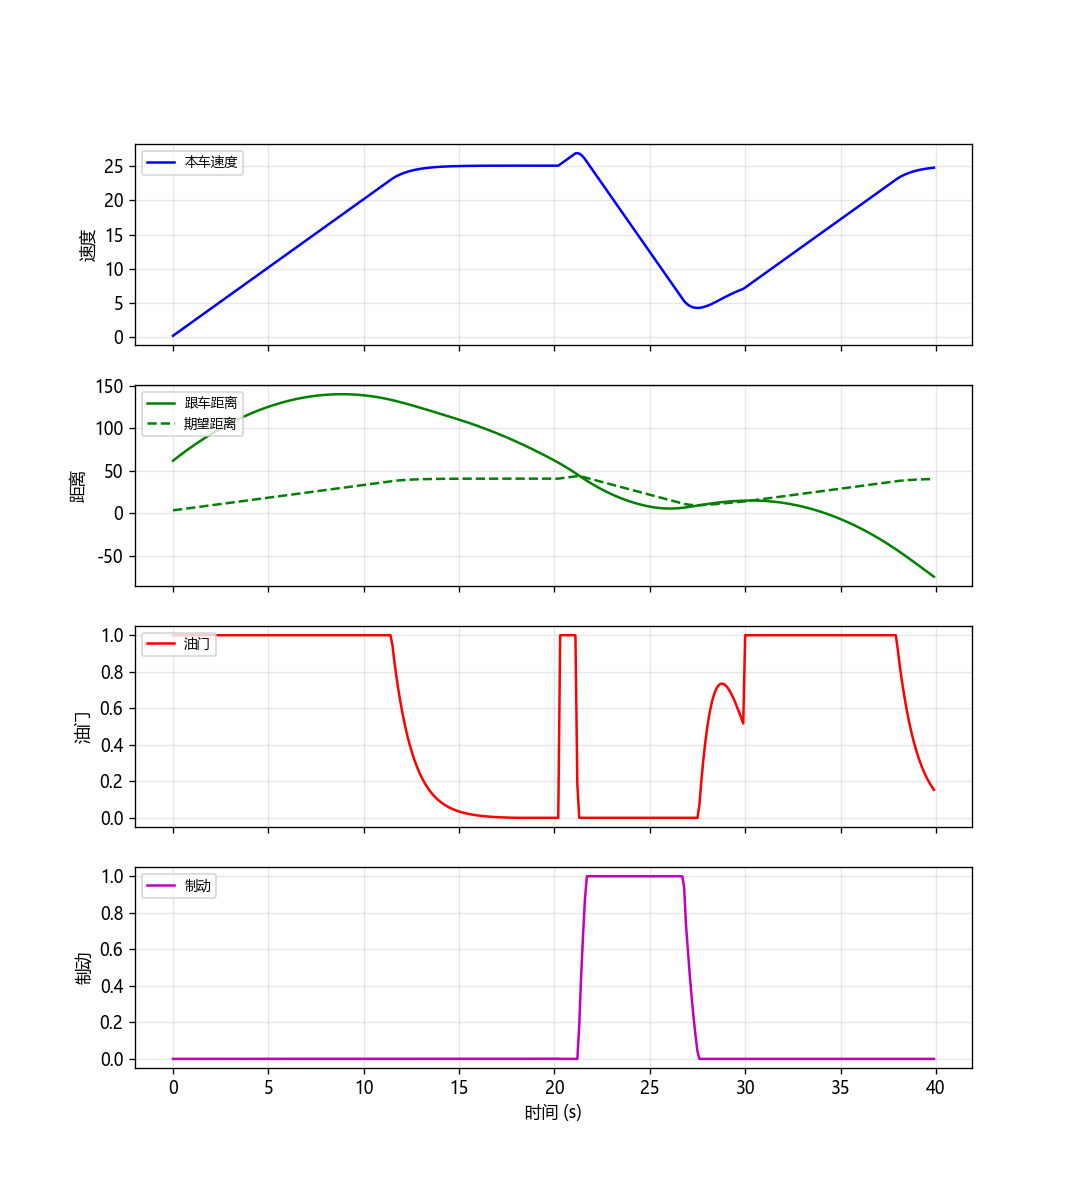
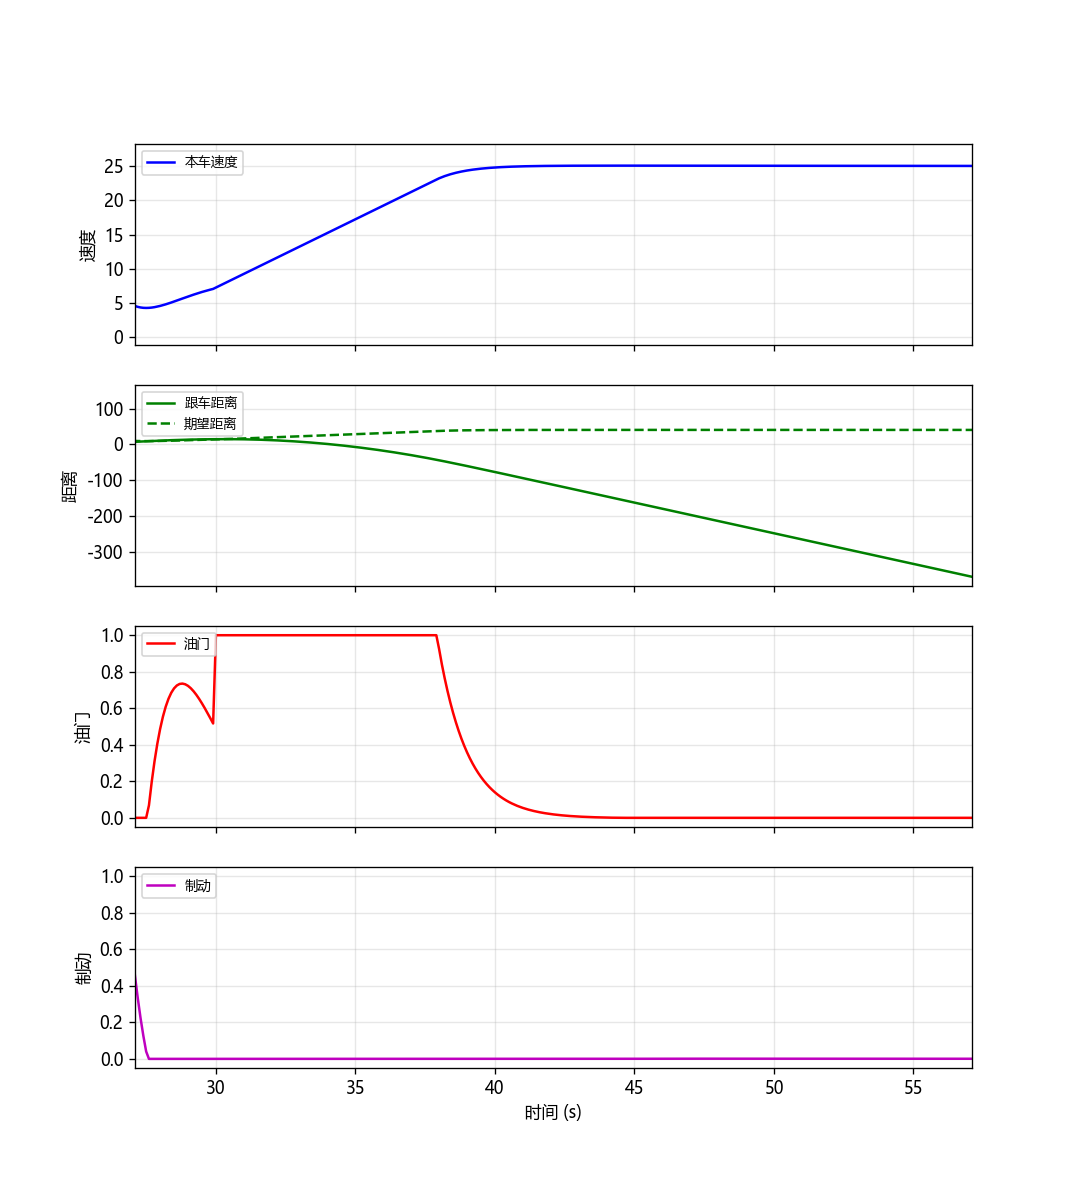
acc_sim 急刹场景 + 标定量对比 + 感知术语笔记；README 同步 v1.7
- scripts/hard_brake_scenario.py: 急刹场景复现
- scripts/compare_time_gap.py: 标定量时间间隔对比实验
- tests/test_acc.py: 用例更新
- notes/perception-terms.md: BEV/OCC 术语笔记（阶段 B 前置概念 + 面试高频词）
- .vscode/settings.json: conda 环境配置
- README: 计划版本 v1.3 → v1.7；补当前阶段进度表与环境状态
- outputs/acc_sim_result.png: 可视化结果更新

diff --git a/scripts/compare_time_gap.py b/scripts/compare_time_gap.py
@@ -1,0 +1,57 @@
+"""标定量实验：改 time_gap 看稳态跟车距离。
+
+体验"改标定量 → 看行为变化"：
+    期望距离 d_set = min_gap + time_gap * v_ego
+    time_gap 越大 → 跟车距离越大（更保守）；越小 → 跟得更近（更激进）。
+
+跑同一收敛场景（前车匀速 20 m/s，本车从 15m 偏近位置退出到稳态），
+对比三个 time_gap 值的稳态跟车距离，验证公式并观察收敛过程。
+"""
+
+import os
+import sys
+
+sys.path.insert(0, os.path.join(os.path.dirname(__file__), ".."))
+
+from acc import ACCSystem, AccConfig, FrontVehicle
+
+
+def run_to_steady(time_gap: float, n_steps: int = 500) -> tuple[float, float]:
+    """返回 (稳态距离, 稳态速度)。"""
+    cfg = AccConfig(set_speed=20.0, time_gap=time_gap, min_gap=3.0)
+    sys = ACCSystem(cfg)
+    sys.turn_on()
+    sys.activate()
+
+    dt = cfg.dt
+    v_ego, x_ego = 20.0, 0.0
+    v_front, x_front = 20.0, 15.0  # 起始 15m，偏近 → ACC 应退到期望距离
+
+    for _ in range(n_steps):
+        target = FrontVehicle(distance=x_front - x_ego, rel_velocity=v_front - v_ego)
+        out = sys.step(target, v_ego)
+        v_ego = max(0.0, v_ego + out.accel * dt)
+        x_ego += v_ego * dt
+        x_front += v_front * dt
+
+    return x_front - x_ego, v_ego
+
+
+def main():
+    print("标定量实验：time_gap 对稳态跟车距离的影响（v_ego≈20 m/s, min_gap=3.0）")
+    print("-" * 60)
+    print(f"{'time_gap(s)':<12}{'d_set 理论(m)':<14}{'稳态距离(m)':<14}{'偏差(m)':<10}")
+    print("-" * 60)
+
+    for gap in (0.8, 1.5, 2.0):
+        d_final, v_final = run_to_steady(gap)
+        d_set = 3.0 + gap * v_final  # 用实际稳态速度算理论值
+        print(f"{gap:<12.1f}{d_set:<14.1f}{d_final:<14.2f}{d_final - d_set:<+10.2f}")
+
+    print("-" * 60)
+    print("time_gap=0.8 → 跟车 19m（激进）；1.5 → 33m（常用）；2.0 → 43m（保守）")
+    print("这就是'标定量改动 → 跟车时距/舒适性/安全性'的直接映射。")
+
+
+if __name__ == "__main__":
+    main()

diff --git a/scripts/hard_brake_scenario.py b/scripts/hard_brake_scenario.py
@@ -1,0 +1,59 @@
+"""急刹场景探测：前车急刹时当前骨架控制器会发生什么？
+
+结论预告：会撞。原因 = 控制器只用距离误差、忽略 rel_velocity，
+对"接近速度"反应迟钝 —— 这正是量产 ACC 跟车控制必须有
+相对速度项（阻尼/前馈）的原因，也是"前车急刹"必须进测试清单的原因。
+
+场景：前车在平衡点（33m, 20m/s）1s 后以 -6 m/s^2 急刹
+（比 ACC 最大减速度 -4 更狠）。观察 ACC 能否避免碰撞。
+
+可以自己改 hard_brake_at / 减速度，看什么条件下不撞。
+"""
+
+import os
+import sys
+
+sys.path.insert(0, os.path.join(os.path.dirname(__file__), ".."))
+
+from acc import ACCSystem, AccConfig, FrontVehicle
+
+
+def main():
+    cfg = AccConfig(set_speed=20.0, time_gap=1.5, min_gap=3.0)
+    sys = ACCSystem(cfg)
+    sys.turn_on()
+    sys.activate()
+
+    dt = cfg.dt
+    v_ego, x_ego = 20.0, 0.0
+    v_front, x_front = 20.0, 33.0  # 从平衡点开始
+
+    hard_brake_at = 1.0   # 1s 后前车急刹
+    front_decel = 6.0     # 前车减速度 (m/s^2)，比 ACC 的 brake_max=4 更狠
+
+    print("t(s)   dist    v_ego   v_front  accel   brk")
+    print("-" * 48)
+    collided = False
+    for i in range(int(8.0 / dt)):
+        t = i * dt
+        if t >= hard_brake_at:
+            v_front = max(0.0, v_front - front_decel * dt)
+        target = FrontVehicle(x_front - x_ego, v_front - v_ego)
+        out = sys.step(target, v_ego)
+        v_ego = max(0.0, v_ego + out.accel * dt)
+        x_ego += v_ego * dt
+        x_front += v_front * dt
+        if i % 10 == 0:
+            print(f"{t:5.1f}  {x_front - x_ego:5.1f}  {v_ego:5.1f}   "
+                  f"{v_front:5.1f}  {out.accel:5.2f}  {out.brake:4.2f}")
+        if x_front - x_ego <= 0:
+            print(f"\n>>> 碰撞！t={t:.1f}s，距离归零。")
+            collided = True
+            break
+
+    if not collided:
+        print("\n>>> 未碰撞，跟车成功。")
+
+
+if __name__ == "__main__":
+    main()

diff --git a/tests/test_acc.py b/tests/test_acc.py
@@ -113,6 +113,26 @@ def test_exceeding_max_speed_exits_active():
     assert out.mode == "none"
 
 
+# ================= 急刹场景：前车急刹应全力制动 =================
+
+def test_hard_brake_requests_full_brake():
+    """前车急刹（近距离 + 大负相对速度）→ 应全力制动。
+
+    验证输出契约：紧急状态必须满刹车。
+    注意：当前骨架控制器只用距离误差、不用 rel_velocity，
+    本用例只保证"近距离触发全力制动"这一步；
+    rel_velocity 被忽略导致的反应滞后，见 scripts/hard_brake_scenario.py。
+    """
+    sys = make_system()
+    sys.turn_on()
+    sys.activate()
+    target = FrontVehicle(distance=5.0, rel_velocity=-10.0)  # 近距离 + 前车急刹
+    out = sys.step(target, 20.0)
+    assert out.mode == "follow"
+    assert out.accel == sys.cfg.brake_max   # 全力制动
+    assert out.brake == 1.0
+
+
 # ================= 运动学收敛（跟车最终收敛到时距） =================
 
 def test_follow_converges_to_constant_time_gap():
